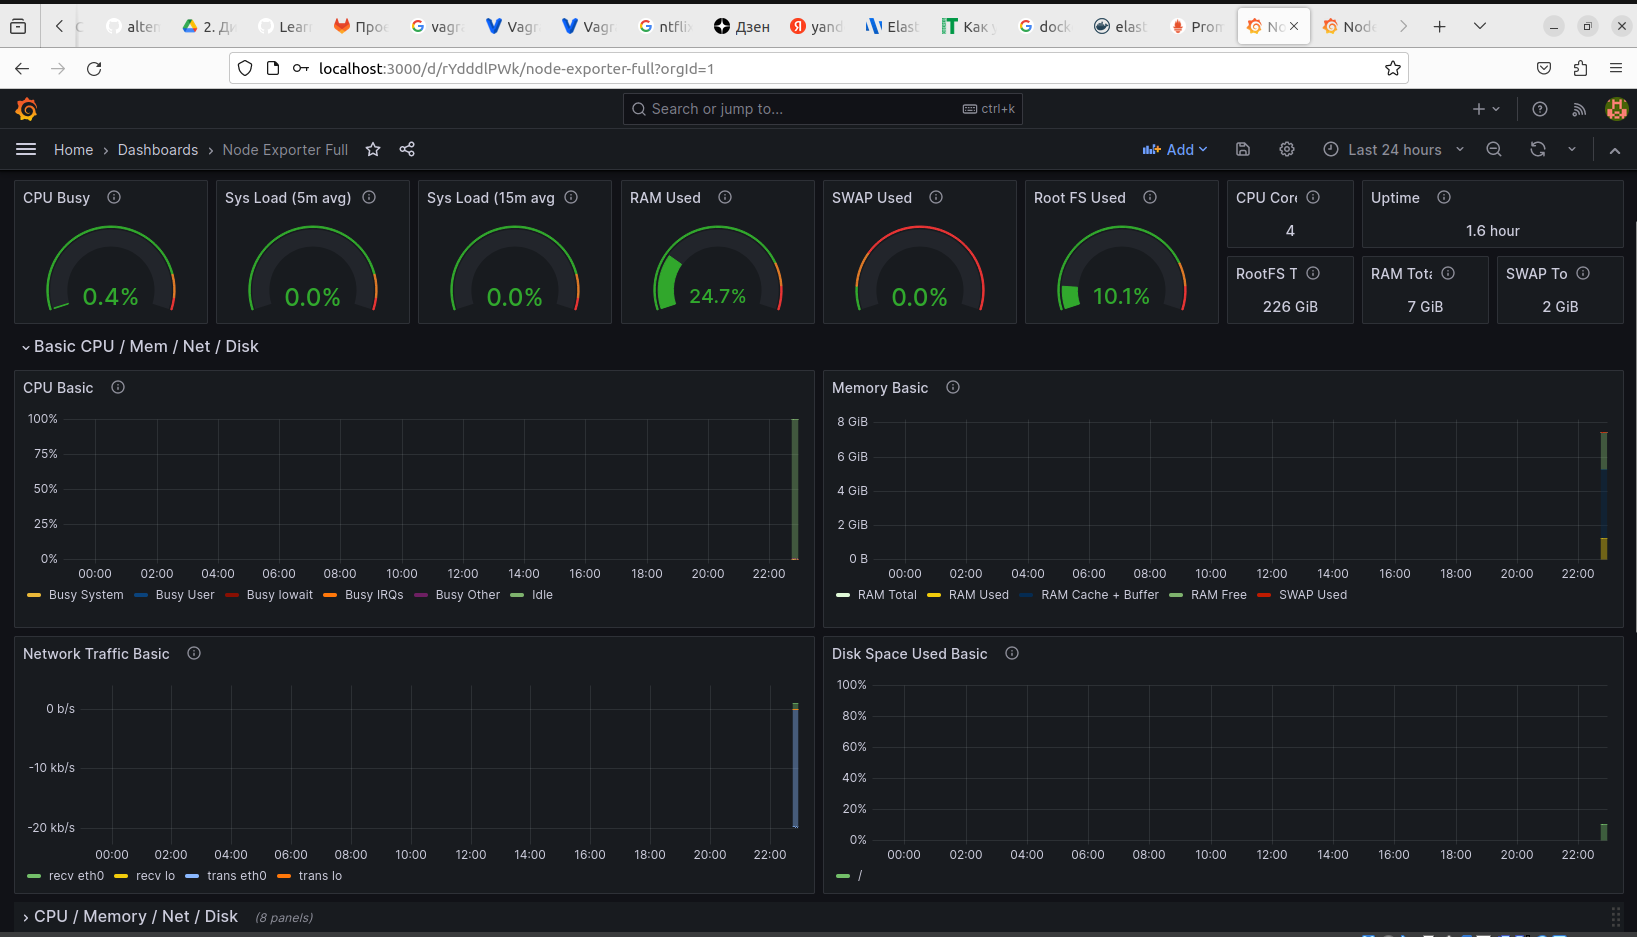
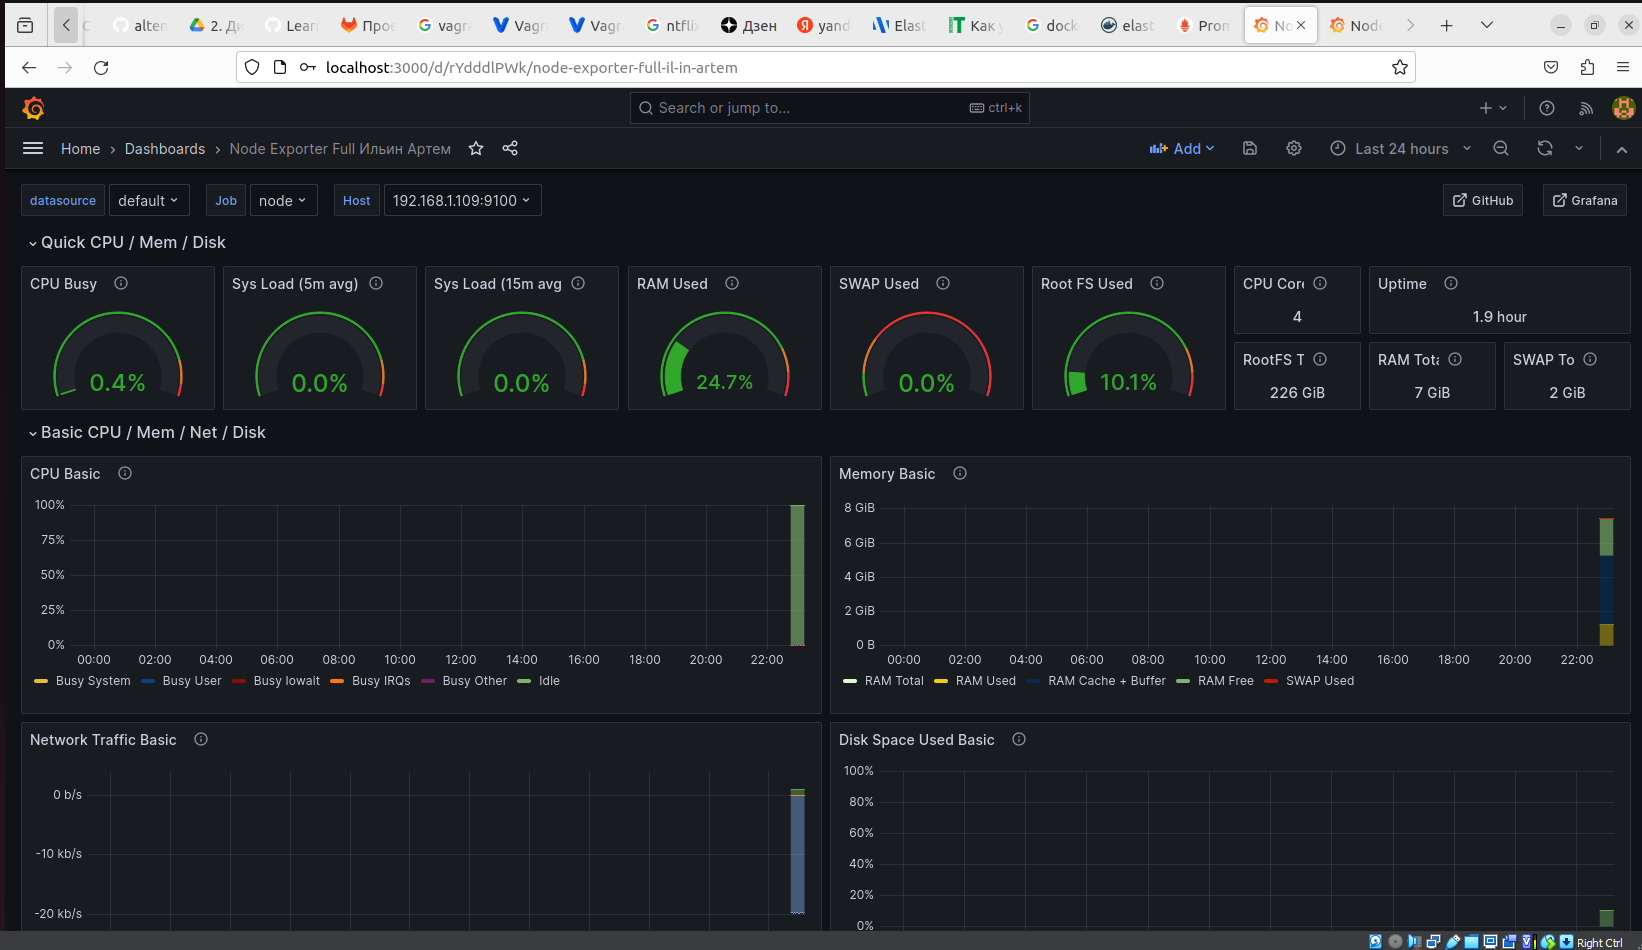
добавляем редактирвание дашборда

diff --git a/readme.md b/readme.md
@@ -152,7 +152,7 @@ https://grafana.com/grafana/dashboards/1860-node-exporter-full/
 
 ![Screenshot](Screenshot_grafana03.png)
 
-Получаем готовый дашборд с выводом метрик. 
+Получаем готовый дашборд с выводом метрик. Отредактируем его название, добавим свое имя и фамилию.
 
 ![Screenshot](Screenshot_grafana04.png)
 
